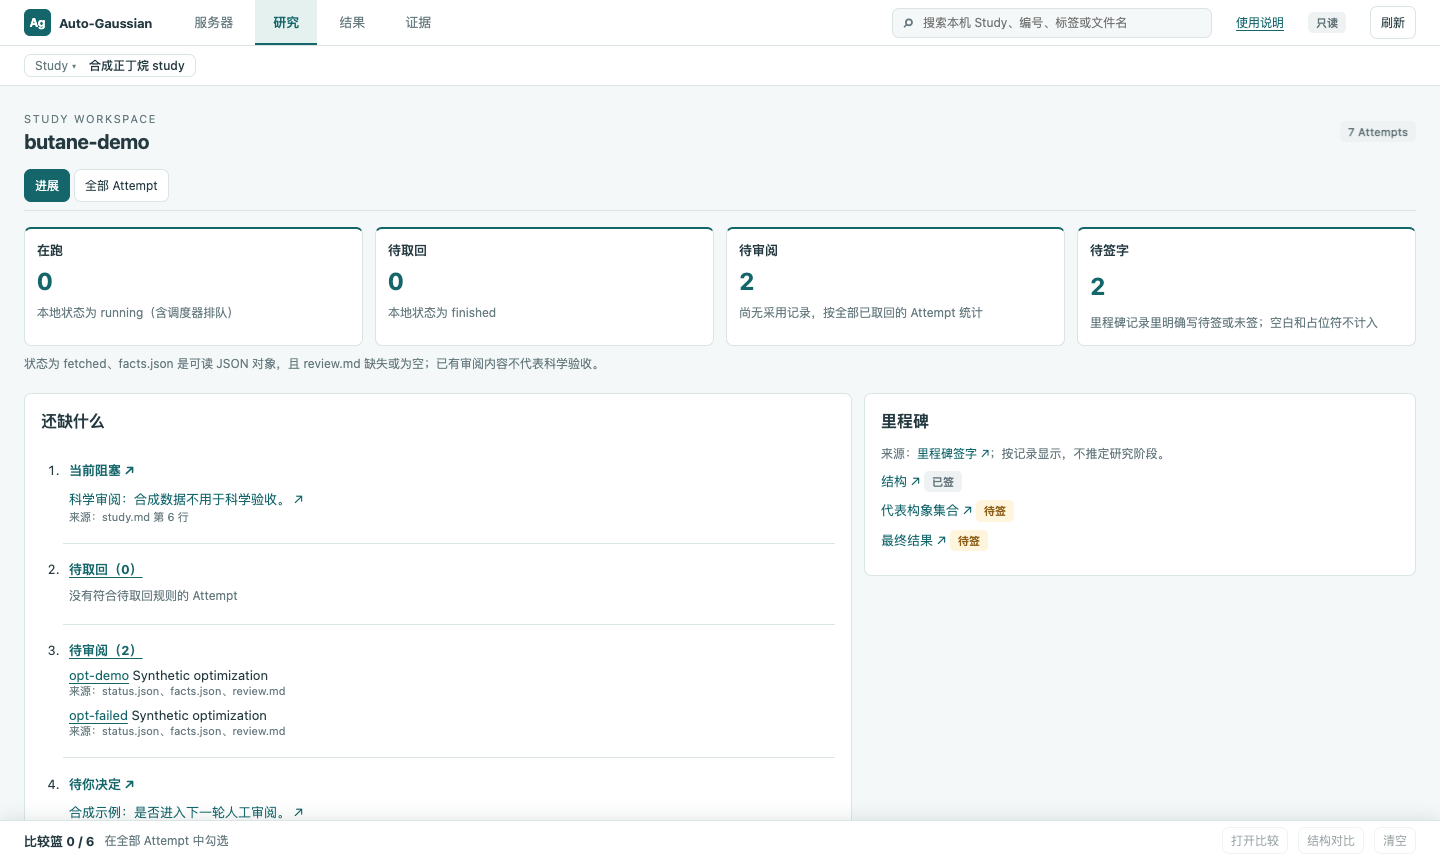
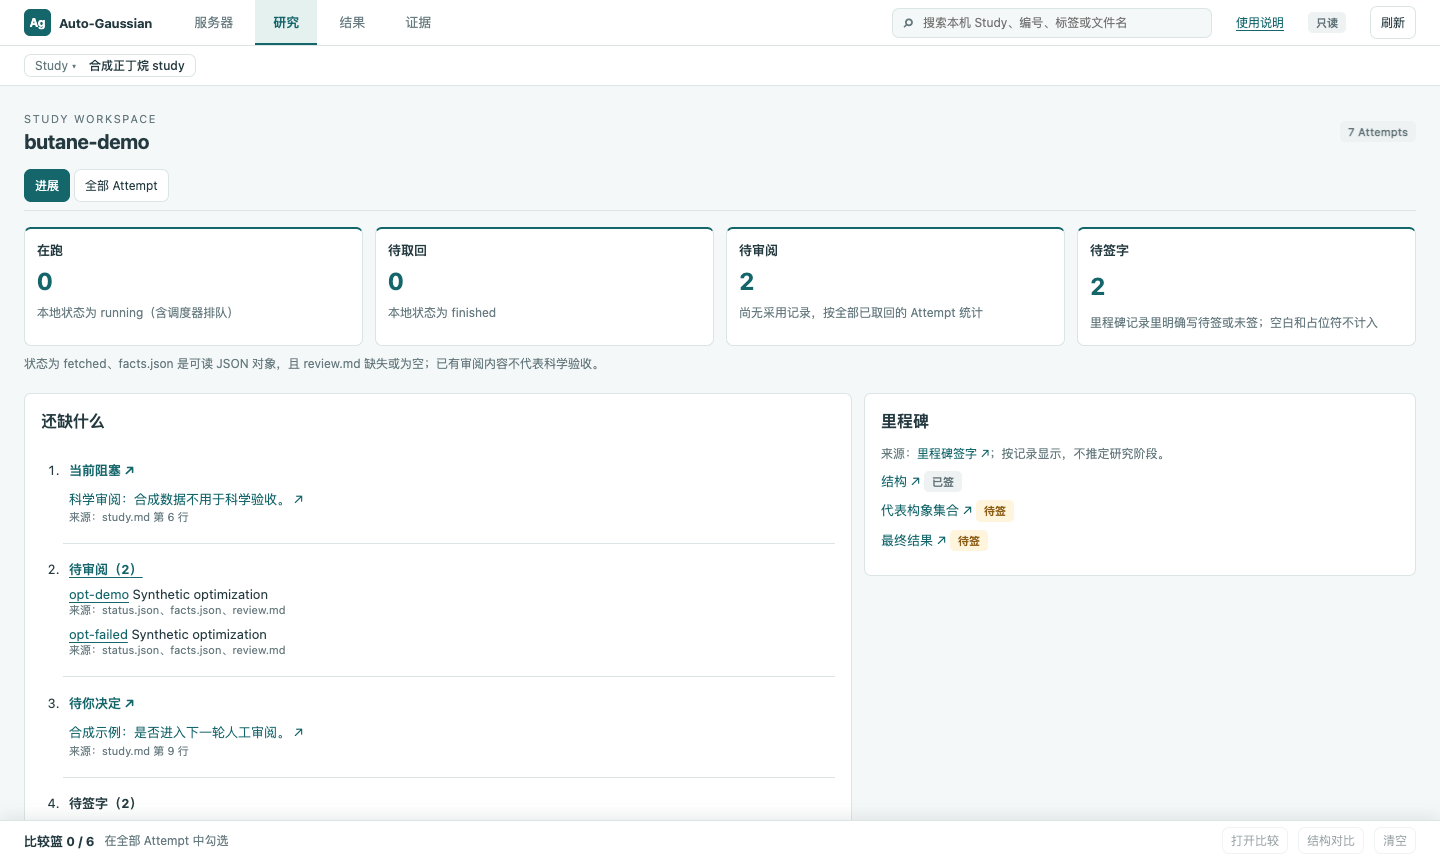
fix: hide zero-count progress follow-ups after T120 review

Changed region(s): [[0.0312, 0.6651, 0.2188, 0.9674]]

diff --git a/web/src/overview.tsx b/web/src/overview.tsx
@@ -35,10 +35,10 @@ export function StudyOverview({data}:{data:Study}){
  <div className="overview-columns">
  <Panel title="还缺什么"><ol className="missing-list">
  <li>{sourceGroup('当前阻塞')}</li>
- <li><h3><a href={studyHash(data.id,'attempts')+'?status=finished'}>待取回（{finished.length}）</a></h3>{attempts(finished,'待取回')}</li>
- <li><h3><a href={studyHash(data.id,'attempts')+'?review=1'}>待审阅（{unreviewed.length}）</a></h3>{attempts(unreviewed,'待审阅')}</li>
+ {finished.length>0&&<li><h3><a href={studyHash(data.id,'attempts')+'?status=finished'}>待取回（{finished.length}）</a></h3>{attempts(finished,'待取回')}</li>}
+ {unreviewed.length>0&&<li><h3><a href={studyHash(data.id,'attempts')+'?review=1'}>待审阅（{unreviewed.length}）</a></h3>{attempts(unreviewed,'待审阅')}</li>}
  <li>{sourceGroup('待你决定')}</li>
- <li><h3>待签字（{milestones.present?pending.length:'未知'}）</h3>{pending.length?<ul className="overview-list">{pending.map((e,i)=><li key={i}>{sourceButton('里程碑签字',e.line,e.label??e.text)}<small>来源：study.md 第 {e.line} 行</small></li>)}</ul>:<p className="muted">{milestones.present?'没有明确待签的记录':'study.md 中没有此节'}</p>}</li>
+ {(!milestones.present||pending.length>0)&&<li><h3>待签字（{milestones.present?pending.length:'未知'}）</h3>{pending.length?<ul className="overview-list">{pending.map((e,i)=><li key={i}>{sourceButton('里程碑签字',e.line,e.label??e.text)}<small>来源：study.md 第 {e.line} 行</small></li>)}</ul>:<p className="muted">study.md 中没有此节</p>}</li>}
  </ol></Panel>
  <div id="milestones"><Panel title="里程碑">
  <p className="muted">来源：{sourceButton('里程碑签字')}；按记录显示，不推定研究阶段。</p>

diff --git a/web/tests/overview.spec.ts b/web/tests/overview.spec.ts
@@ -47,6 +47,25 @@ test('KPI rules use explicit saved state, facts and review availability',async({
  await expect(page.getByRole('table',{name:'Attempt 结果表'}).locator('tbody tr')).toHaveCount(data.attempts.length);
 });
 
+test('missing list hides zero counts but keeps positive items and unknown signatures',async({page,request})=>{
+ const data=await (await request.get('/api/studies/butane-demo')).json();
+ await page.route('**/api/studies/butane-demo',r=>r.fulfill({json:data}));
+ await page.goto('/#/s/butane-demo');
+ const work=page.getByRole('region',{name:'还缺什么'});
+ await expect(work.getByRole('heading',{name:/^待取回/})).toHaveCount(0);
+ await expect(work.getByRole('heading',{name:'待审阅（2）',exact:true})).toBeVisible();
+ await expect(work.getByRole('heading',{name:'待签字（2）',exact:true})).toBeVisible();
+ data.attempts=[];data.sections['里程碑签字']={present:true,text:'',entries:[]};
+ await page.reload();
+ for(const name of ['待取回','待审阅','待签字']){
+  await expect(work.getByRole('heading',{name:new RegExp('^'+name)})).toHaveCount(0);
+  await expect(page.getByRole('article',{name,exact:true}).locator('.kpi-value')).toHaveText('0');
+ }
+ data.sections['里程碑签字'].present=false;await page.reload();
+ await expect(work.getByRole('heading',{name:'待签字（未知）',exact:true})).toBeVisible();
+ await expect(page.getByRole('article',{name:'待签字',exact:true}).locator('.kpi-value')).toHaveText('—');
+});
+
 test('missing and empty template sections are explicit, source drawer is readonly',async({page,request})=>{
  const data=await (await request.get('/api/studies/butane-demo')).json();
  for(const present of [false,true]){

diff --git a/docs/redesign-tasks/T120-shell-progress.md b/docs/redesign-tasks/T120-shell-progress.md
@@ -135,3 +135,12 @@
   `frames-compare-capacity.spec.ts`、`integration.spec.ts`、`irc-review.spec.ts`、`jobs.spec.ts`、
   `overview.spec.ts`、`preview.spec.ts`、`results.spec.ts`、`shell-continuity.spec.ts`、`shell.spec.ts`、
   `study-viewer.spec.ts`、`shell-progress.spec.ts`。
+
+
+### 轻审跟进（2026-10-23）
+
+- 监督方对 `82662fda3f17e5cf56b5464a06058fcad03176cd` 轻审通过。
+- 按本 PR 建议隐藏“还缺什么”中的待取回、待审阅、待签字零数量项；四个指标仍显示真实的 0，里程碑记录缺失仍提示未知。
+- 新增覆盖零数量/正数量/未知区别的浏览器用例，更新六张原有合成截图；相关浏览器测试 18/18、类型检查和构建通过，最终全量结果见 PR 的 CI。
+- 截图夹具增加 `val-` Study 的建议留待后续，不改变本次类型规则。
+- T118（#31）、T115（#29）仍未合并，本轮未 rebase。以后若冲突仅涉及路由表和 studies.py 的加法，按审阅意见无需重审；若涉及逻辑，须提供 rebase 前后 diff。
